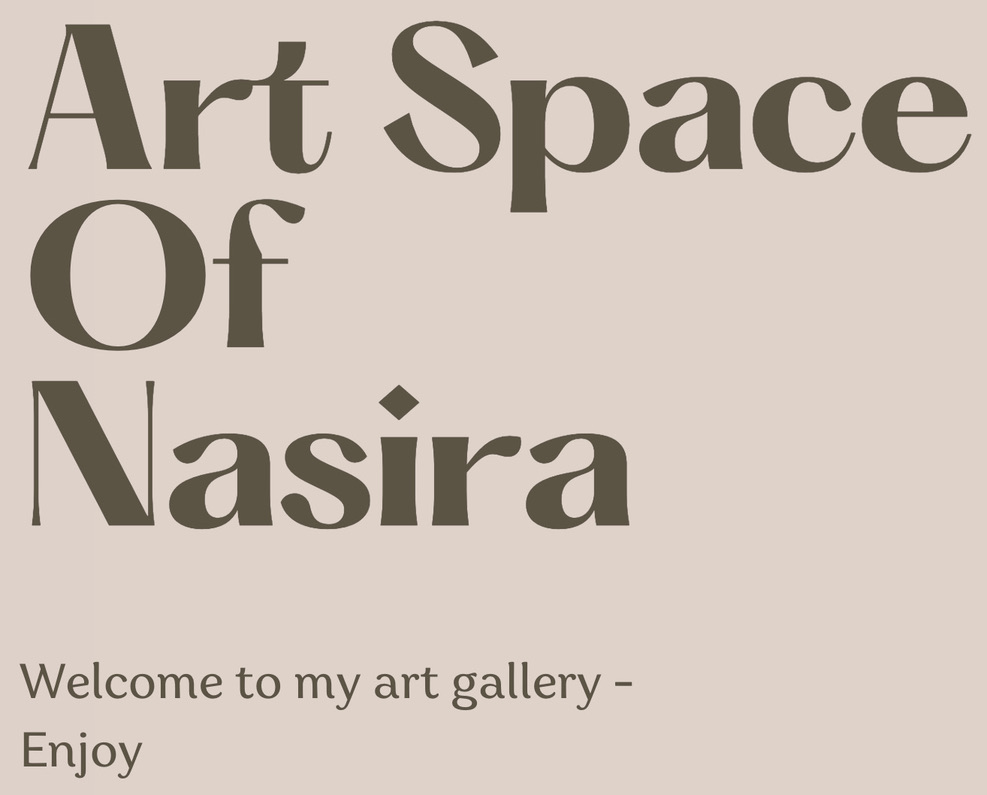
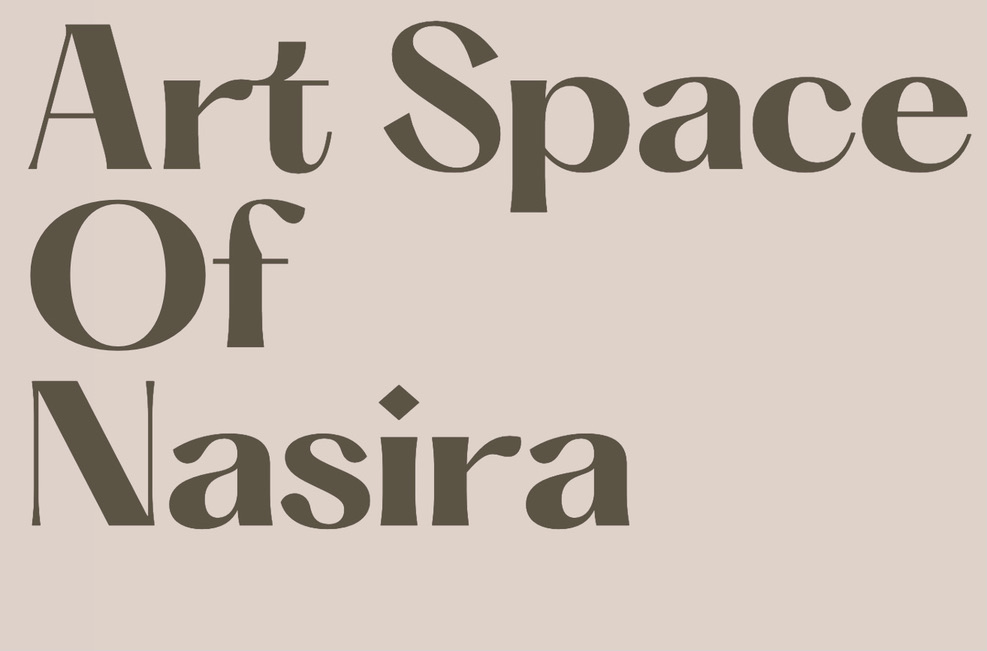
fix gallery fit

Changed region(s): [[0.0, 0.0307, 0.6383, 0.8909], [0.3951, 0.0, 1.0, 0.3379], [0.0, 0.9217, 0.152, 0.9831]]

diff --git a/src/GalleryI.js b/src/GalleryI.js
@@ -17,14 +17,34 @@ const images = importAll(require.context('./arts/canvas', false, /\.(png|jpe?g|s
 function GalleryI() {
 
   const itemData = [
-    {
-      img: images['canvas_1.jpeg'],
-      title: '1',
-    },
     
+    {
+      img: images['canvas_2.jpeg'],
+      title: '2',
+    },
     {
       img: images['canvas_3.jpeg'],
       title: '3',
+    },
+    {
+      img: images['canvas_6.jpeg'],
+      title: '6',
+    },
+    {
+      img: images['canvas_9.jpeg'],
+      title: '9',
+    },
+    {
+      img: images['canvas_7.jpeg'],
+      title: '7',
+    },
+    {
+      img: images['canvas_8.jpeg'],
+      title: '8',
+    },
+    {
+      img: images['canvas_4.jpeg'],
+      title: '4',
     },
     
     {
@@ -33,34 +53,15 @@ function GalleryI() {
     },
     
     {
-      img: images['canvas_4.jpeg'],
-      title: '4',
-    },
-    {
-      img: images['canvas_6.jpeg'],
-      title: '6',
-    },
-    {
-      img: images['canvas_2.jpeg'],
-      title: '2',
-    },
-    {
-      img: images['canvas_8.jpeg'],
-      title: '8',
-    },
-    {
-      img: images['canvas_7.jpeg'],
-      title: '7',
-    },
-    {
-      img: images['canvas_9.jpeg'],
-      title: '9',
+      img: images['canvas_1.jpeg'],
+      title: '1',
     },
   ]
   return (
     <div className='galleryI'>
-      <Box sx={{ width: 1200}}>
-      <ImageList variant="masonry" cols={2} gap={50}>
+      <Box sx={{ width: '100%'}}>
+      <ImageList variant="quilted" cols={2} gap={10}   sx={{ width: '100%', height: '100%' }}
+>
         {itemData.map((item) => (
           <ImageListItem key={item.img}>
             <Zoom>
@@ -68,7 +69,8 @@ function GalleryI() {
                             src={`${item.img}?w=248&fit=crop&auto=format`}
                             srcSet={`${item.img}?w=248&fit=crop&auto=format&dpr=2 2x`}
                             alt={item.title}
-                            loading="lazy"
+                            loading="eager"
+                            className='im'
               />
     </Zoom>
             

diff --git a/src/GalleryII.js b/src/GalleryII.js
@@ -16,9 +16,17 @@ const images = importAll(require.context('./arts/drawings', false, /\.(png|jpe?g
 
 function GalleryII() {
   const itemData = [
+    {
+        img: images['drawings_2.jpeg'],
+        title: '2',
+      },
       {
-        img: images['drawings_1.jpeg'],
-        title: '1',
+        img: images['drawings_4.jpeg'],
+        title: '4',
+      },
+      {
+        img: images['drawings_10.jpeg'],
+        title: '10',
       },
       {
         img: images['drawings_6.jpeg'],
@@ -50,29 +58,23 @@ function GalleryII() {
         img: images['drawings_3.jpeg'],
         title: '3',
       },
-      {
-        img: images['drawings_4.jpeg'],
-        title: '4',
-      },
-      {
-        img: images['drawings_2.jpeg'],
-        title: '2',
-      },
+      
+      
       {
         img: images['drawings_7.jpeg'],
         title: '7',
       },
  
       {
-        img: images['drawings_10.jpeg'],
-        title: '10',
+        img: images['drawings_1.jpeg'],
+        title: '1',
       },
     
   ]
   return (
     <div className='galleryII'>
-      <Box sx={{ width: 1200}}>
-            <ImageList variant="masonry" cols={2} gap={100}>
+      <Box sx={{ width: '100%'}}>
+      <ImageList variant="quilted" cols={2} gap={10}   sx={{ width: '100%', height: '100%' }} >
               {itemData.map((item) => (
                 <ImageListItem key={item.img}>
                   <Zoom>
@@ -81,6 +83,7 @@ function GalleryII() {
                       srcSet={`${item.img}?w=248&fit=crop&auto=format&dpr=2 2x`}
                       alt={item.title}
                       loading="lazy"
+                      className='im'
                     />
           </Zoom>
                   

diff --git a/src/GalleryIII.js b/src/GalleryIII.js
@@ -21,8 +21,8 @@ function GalleryIII() {
       title: '3',
     },
     {
-      img: images['digital_1.jpeg'],
-      title: '1',
+      img: images['digital_9.jpeg'],
+      title: '9',
     },
     {
       img: images['digital_11.jpeg'],
@@ -52,8 +52,8 @@ function GalleryIII() {
       title: '8',
     },
     {
-      img: images['digital_9.jpeg'],
-      title: '9',
+      img: images['digital_1.jpeg'],
+      title: '1',
     },
     {
       img: images['digital_10.jpeg'],
@@ -155,8 +155,8 @@ function GalleryIII() {
   ]
   return (
     <div className='galleryIII'>
-      <Box sx={{ width: 1200}}>
-    <ImageList variant="masonry" cols={2} gap={30}>
+      <Box sx={{ width: '100%'}}>
+      <ImageList variant="quilted" cols={2} gap={10}   sx={{ width: '100%', height: '100%' }} >
       {itemData.map((item) => (
         <ImageListItem key={item.img}>
           <Zoom>
@@ -165,6 +165,7 @@ function GalleryIII() {
               srcSet={`${item.img}?w=248&fit=crop&auto=format&dpr=2 2x`}
               alt={item.title}
               loading="lazy"
+              className='im'
             />
   </Zoom>
           

diff --git a/src/App.js b/src/App.js
@@ -12,8 +12,8 @@ import GalleryII from './GalleryII';
 import GalleryIII from './GalleryIII';
 import GalleryI from './GalleryI';
 import AboutMe from './AboutMe';
-import Contact from './Contact';
 import Home from './Home';
+
 
 function App() {
   return (
@@ -25,7 +25,6 @@ function App() {
            <Button href="/GalleryI">Painting</Button>
            <Button href="/GalleryII">Drawing</Button>
            <Button href="/GalleryIII">Digital Art</Button>
-           <Button href="/Contact">Contact</Button>
         
         </div>
 
@@ -36,11 +35,8 @@ function App() {
           <Route path="/GalleryI" element={<GalleryI />} />
           <Route path="/GalleryII" element={<GalleryII />} />
           <Route path="/GalleryIII" element={<GalleryIII />} />
-          <Route path="/Contact" element={<Contact />} />
           </Routes>
       </Router>
-      <div className='app_menu'>
-      </div>
       
       
       

diff --git a/src/Home.js b/src/Home.js
@@ -2,11 +2,17 @@ import React from 'react'
 import home_page from "./arts/home_page.jpeg"
 import home_title from "./arts/home_title.jpeg";
 import "./Home.css";
+import { Controller, Scene } from 'react-scrollmagic';
+import { Tween, Timeline } from 'react-gsap';
+import Button from '@mui/material/Button';
+
 function Home() {
   return (
     <div className='app__content'>
       <img alt="home_page_img" src={home_page} className="cover_img"></img>
       <img alt="" src={home_title} className="title_img"></img>
+
+      
     </div>
   )
 }

diff --git a/src/AboutMe.js b/src/AboutMe.js
@@ -13,7 +13,8 @@ function AboutMe() {
        </div>
        <div className='aboutme__right'>
         <img alt="" src={AboutMeTitle} className="aboutme__title"></img>
-        <p>I have enjoyed creating art works since I was a little girl. This is a healing process for me to be in my own world and spread my feelings.</p>
+        <p>I have enjoyed creating art works since I was a little girl</p>
+        <p>This is a healing process for me to be in my own world and spread my feelings</p>
        </div>
       
     </div>

diff --git a/src/Home.css b/src/Home.css
@@ -1,13 +1,16 @@
 .app__content{
-    justify-content: center;
+    justify-content:space-evenly;
     display: flex;
+    
   }
   .cover_img{
-    height: 570px;
-    padding-right: 5%;
+    height: 600px;
+    padding-right: 3%;
+    padding-left: 15%;
   }
   .title_img{
     height: 270px;
-    padding-right: 5%;
-    padding-top: 10%;
+    padding-right: 15%;
+    padding-top: 15%;
   }
+

diff --git a/src/GalleryI.css b/src/GalleryI.css
@@ -1,4 +1,9 @@
 .galleryI{
-    margin-left: 170px;
+    padding-left: 5%;
     margin-top: 3%;
+}
+
+.im{
+    width: 600px;
+    border-radius: 5px;
 }

diff --git a/src/GalleryIII.css b/src/GalleryIII.css
@@ -1,4 +1,4 @@
 .galleryIII{
-    margin-left: 170px;
+    padding-left: 5%;
     margin-top: 3%;
 }

diff --git a/src/GalleryII.css b/src/GalleryII.css
@@ -1,4 +1,4 @@
 .galleryII{
-    margin-left: 130px;
+    padding-left: 5%;
     margin-top: 3%;
 }

diff --git a/src/App.css b/src/App.css
@@ -24,3 +24,7 @@ a:active{
 }
 
 
+
+
+
+
